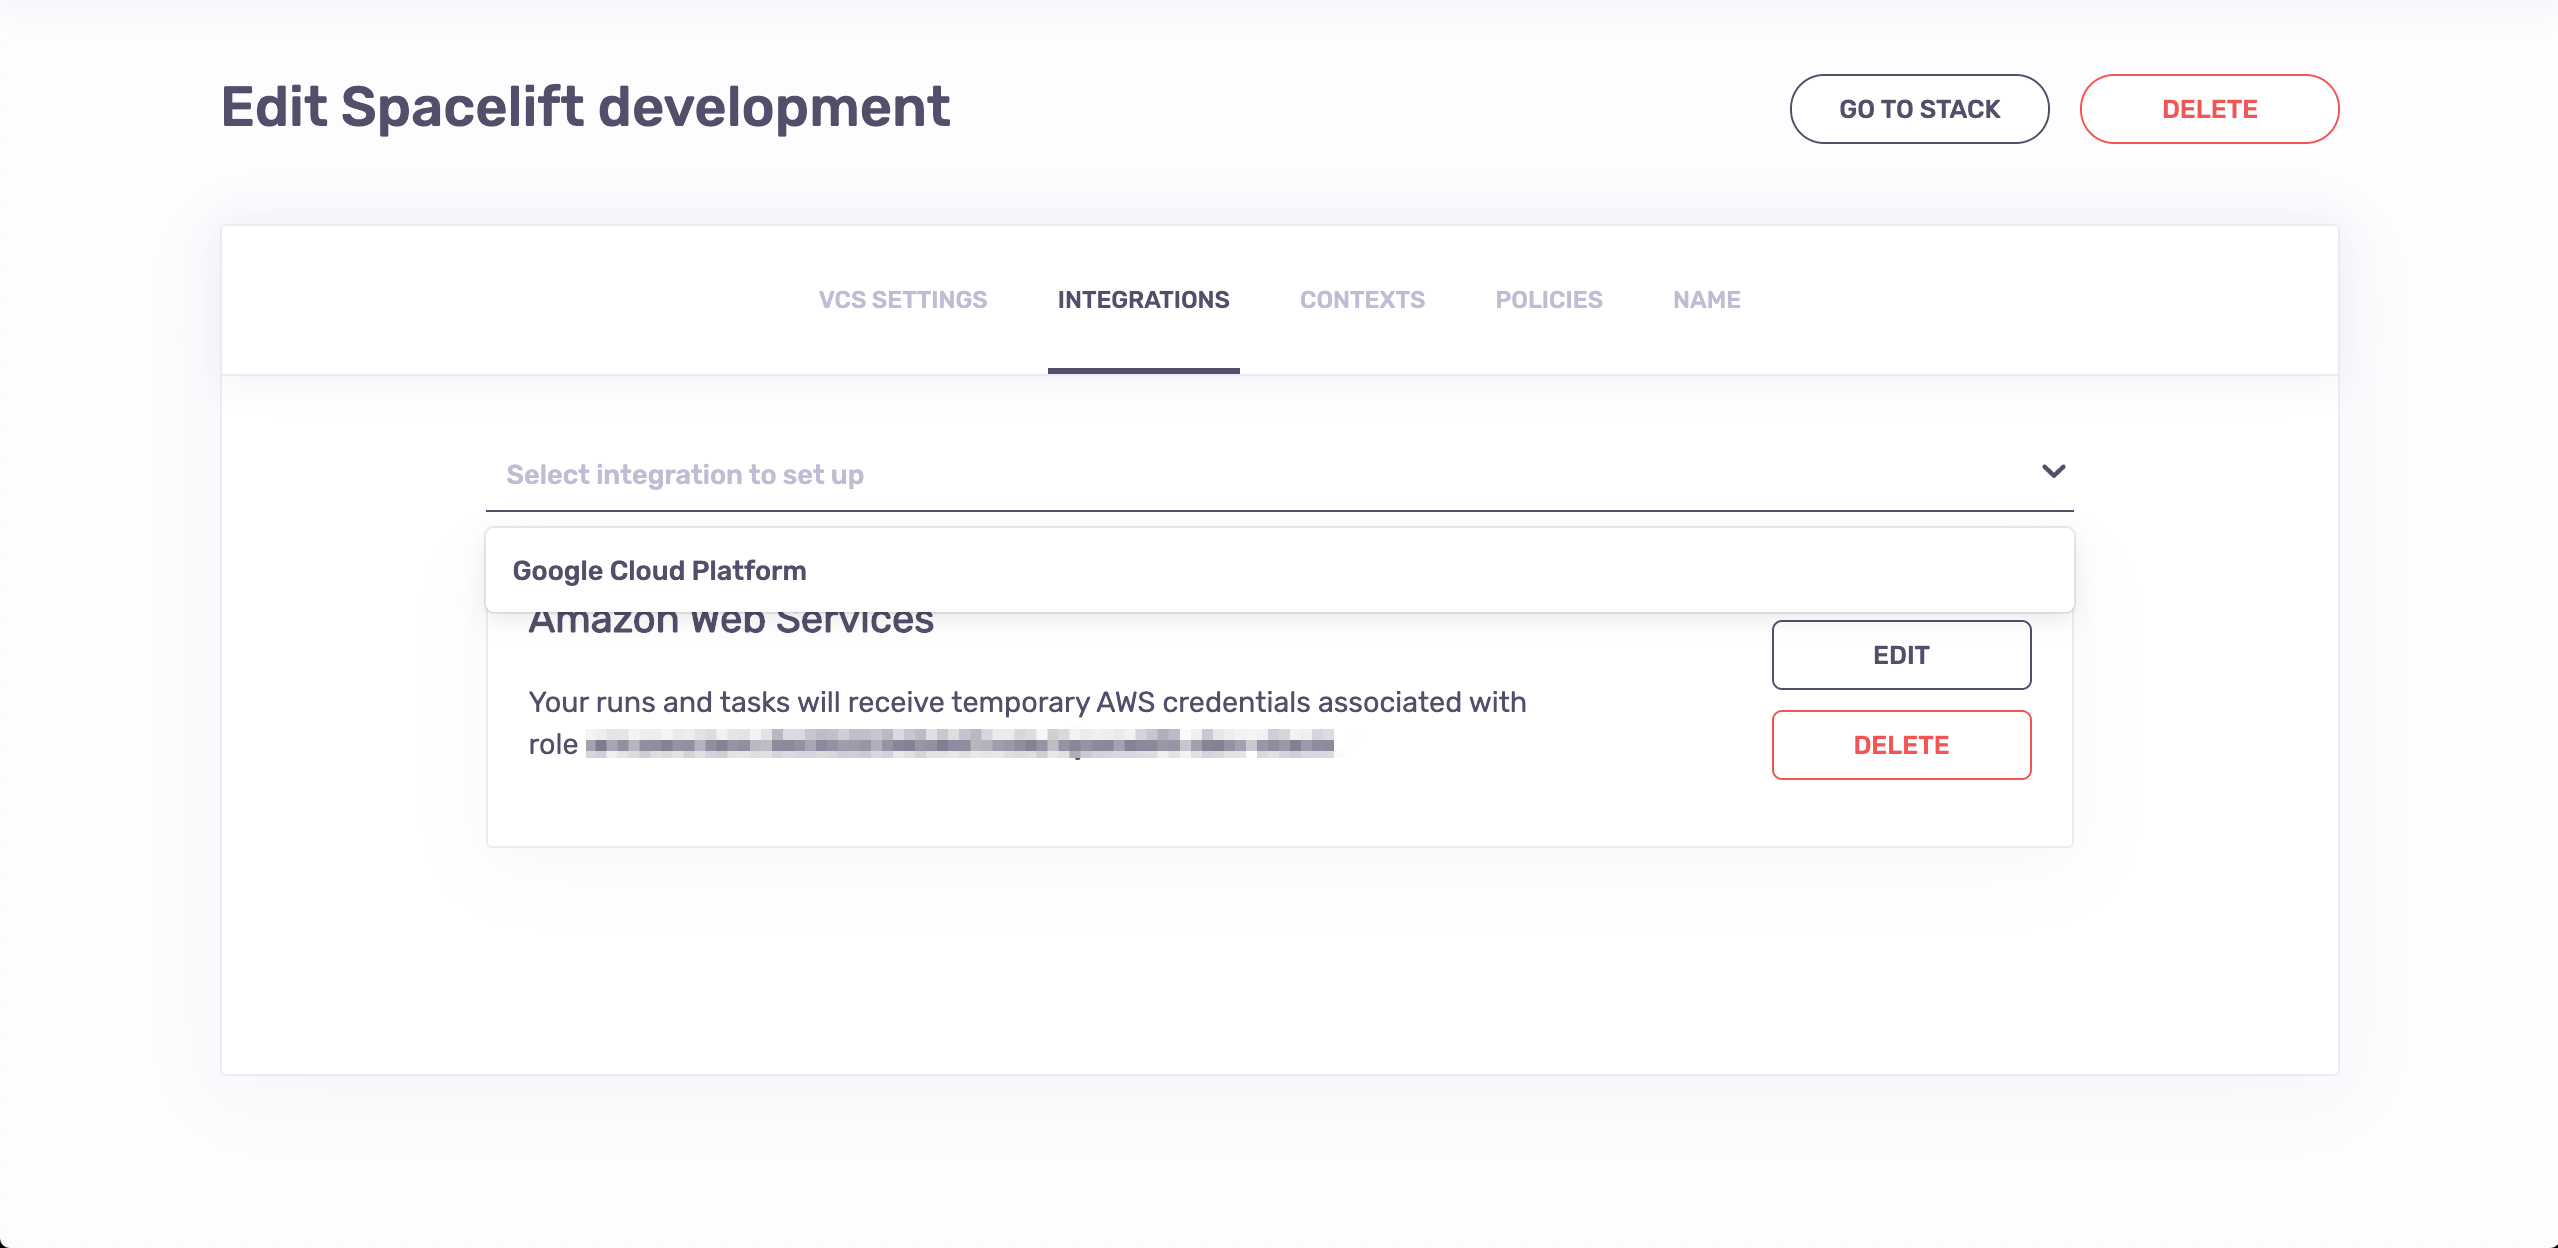
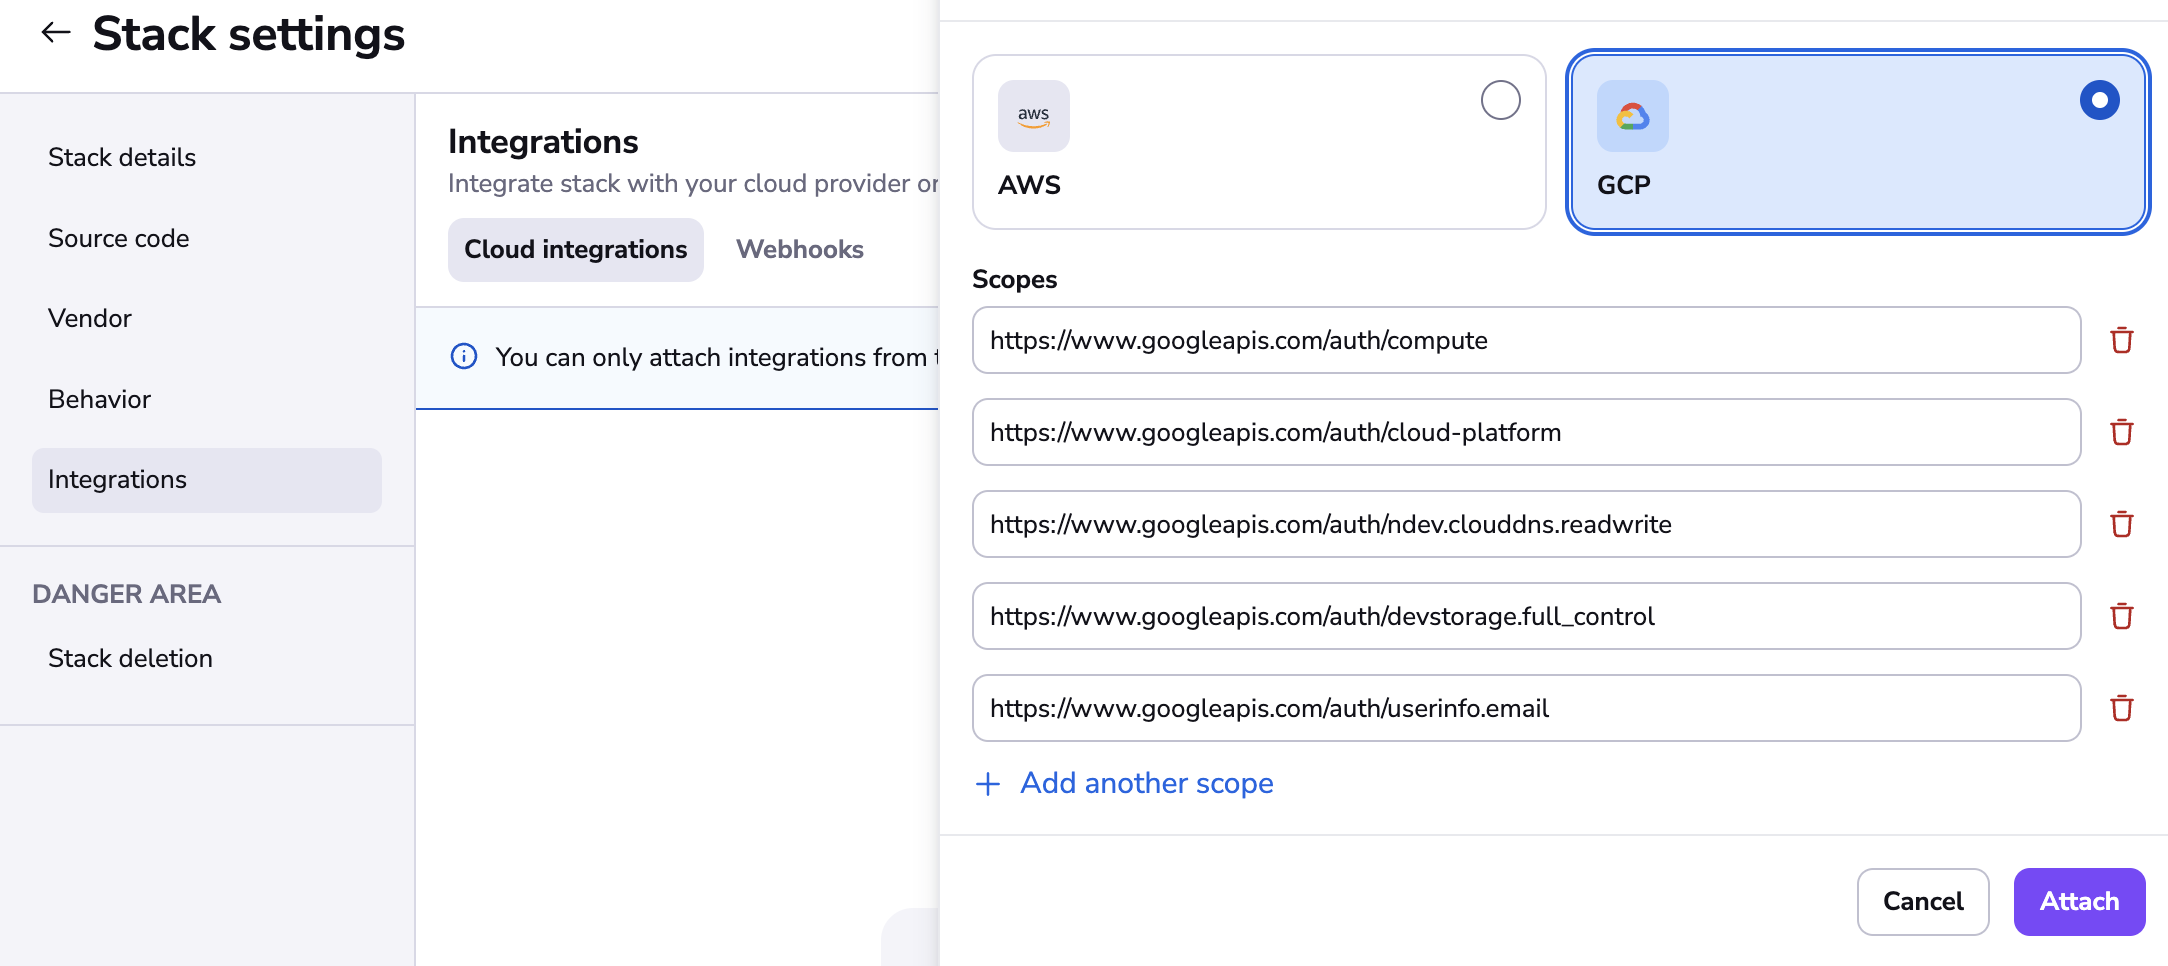
Update old screenshots in the GCP integrations page

diff --git a/docs/integrations/cloud-providers/gcp.md b/docs/integrations/cloud-providers/gcp.md
@@ -28,15 +28,11 @@ This list is consistent with the [defaults requested by the Terraform provider](
 
 ## Setting up in Spacelift
 
-If you're setting up the integration through the web UI, please go to the _Integrations_ tab in the stack management view and choose Google Cloud Platform from the list of available integrations:
+If you're setting up the integration through the web UI, please go to the _Integrations_ tab in the stack settings page and choose GCP from the list of available integrations. You'll be presented with a form allowing you to customize the list of OAuth scopes for the temporary token we'll generate for each [Run](../../concepts/run/README.md) and [Task](../../concepts/run/task.md):
 
 ![](../../assets/screenshots/Edit_stack_·_Spacelift_development.png)
 
-Once there, you'll be presented with a form allowing you to customize the list of OAuth scopes for the temporary token we'll generate for each [Run](../../concepts/run/README.md) and [Task](../../concepts/run/task.md):
-
-![](<../../assets/screenshots/Edit_stack_·_Spacelift_development (1).png>)
-
-Once you click _Save_, the account is generated for you and we display its globally unique email. You'll need this email when [setting up access on the GCP end](gcp.md#setting-up-access-in-gcp).
+Once you click _Attach_, the account is generated for you and we display its globally unique email. You'll need this email when [setting up access on the GCP end](gcp.md#setting-up-access-in-gcp).
 
 ![](<../../assets/screenshots/Edit_stack_·_Spacelift_development (2).png>)
 

diff --git a/CONTRIBUTING.md b/CONTRIBUTING.md
@@ -60,7 +60,7 @@ You can also manually trigger the tests at any time by running:
 pre-commit
 ```
 
-> Tip: one of our precommit checks is `oxipng` which optimizes PNG images. If you don't want to use `pre-commit` locally, you can optimize your PNG images with `docker run --rm -it -v $(PWD):/workdir -w /workdir peterdemesl/oxipng docs/assets/screenshots/* --opt=4 --preserve --strip=safe`.
+> Tip: one of our precommit checks is `oxipng` which optimizes PNG images. If you don't want to use `pre-commit` locally, you can optimize your PNG images with `docker run --rm -it -v $(PWD):/workdir -w /workdir ghcr.io/shssoichiro/oxipng docs/assets/screenshots/<filename.png|jpg> --opt=4 --preserve --strip=safe`.
 
 ## Self-Hosted
 
